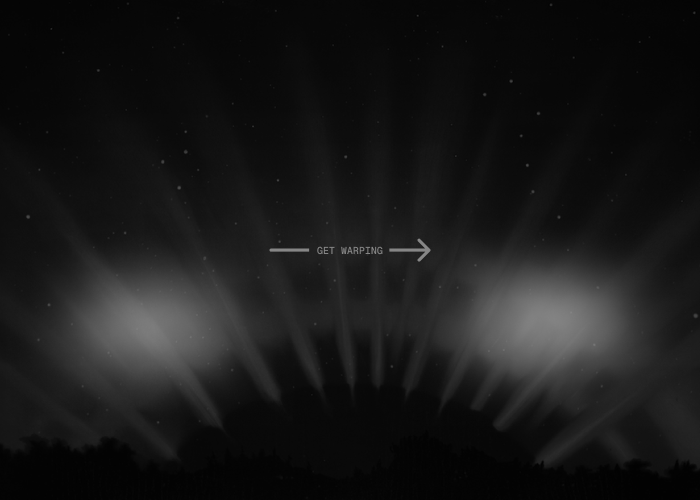
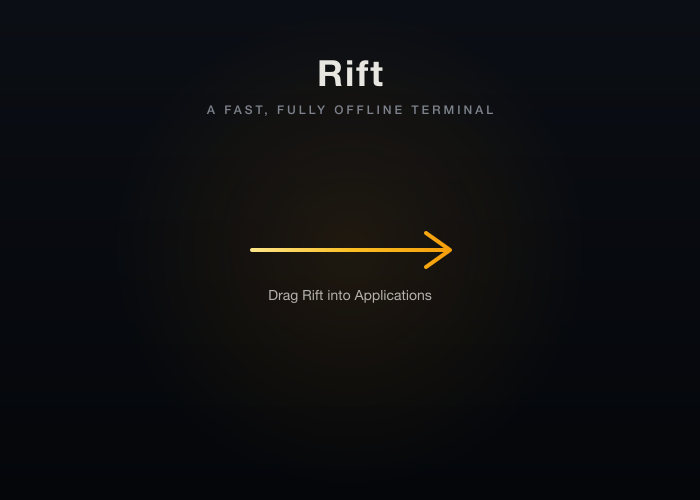
Package Rift for distribution: macOS bundle fixes + release pipeline
Make the macOS app bundler work against the stripped tree and add an
Apple-Silicon-only GitHub Releases pipeline so the app can be downloaded
and installed.

- script/macos/bundle: drop the deleted nld_classifier_*/nld_heuristic_*
  features (removed with the AI strip) from the GUI app build; stage only
  Rift.app into the DMG source dir so the installer window no longer shows
  a stray off-screen folder (which caused a horizontal scrollbar); bump the
  DMG window height to account for the Finder title bar (vertical scrollbar).
- script/prepare_bundled_resources: drop the GitHub Desktop license entry
  whose file was removed with the code_review subsystem.
- Rebrand the DMG background (branding/rift-install-image.svg ->
  app/assets/resources/mac/rift_install_image.png): replace Warp's
  "GET WARPING" artwork with a Rift-branded image.
- .github/workflows/release.yml: build an arm64 (Apple Silicon only) DMG on
  tag push / manual dispatch and attach it to a GitHub Release. Ad-hoc
  signed for now; structured so Developer ID notarization can be added later.
- README: add a Download section (Apple Silicon only + Gatekeeper note).
- gitignore the Intel cargo-bundle artifact dropped by install_cargo_bundle.

diff --git a/README.md b/README.md
@@ -10,6 +10,20 @@
 
 It is the Warp terminal you compile yourself: blocks, GPU rendering, and editor-style command input, with no account, no network calls, and no agent. Not a product — a terminal I own and can modify.
 
+## Download
+
+Grab the latest `.dmg` from the [**Releases**](../../releases/latest) page, open it, and drag **Rift** to Applications.
+
+**Apple Silicon only** (M1 or newer) — Intel Macs are not supported.
+
+The build isn't notarized yet, so clear the quarantine flag once after installing:
+
+```sh
+xattr -dr com.apple.quarantine /Applications/Rift.app
+```
+
+(or right-click the app → **Open** the first time). Or [build it yourself](#building).
+
 ## How Rift differs from Warp
 
 | | Warp | Rift |